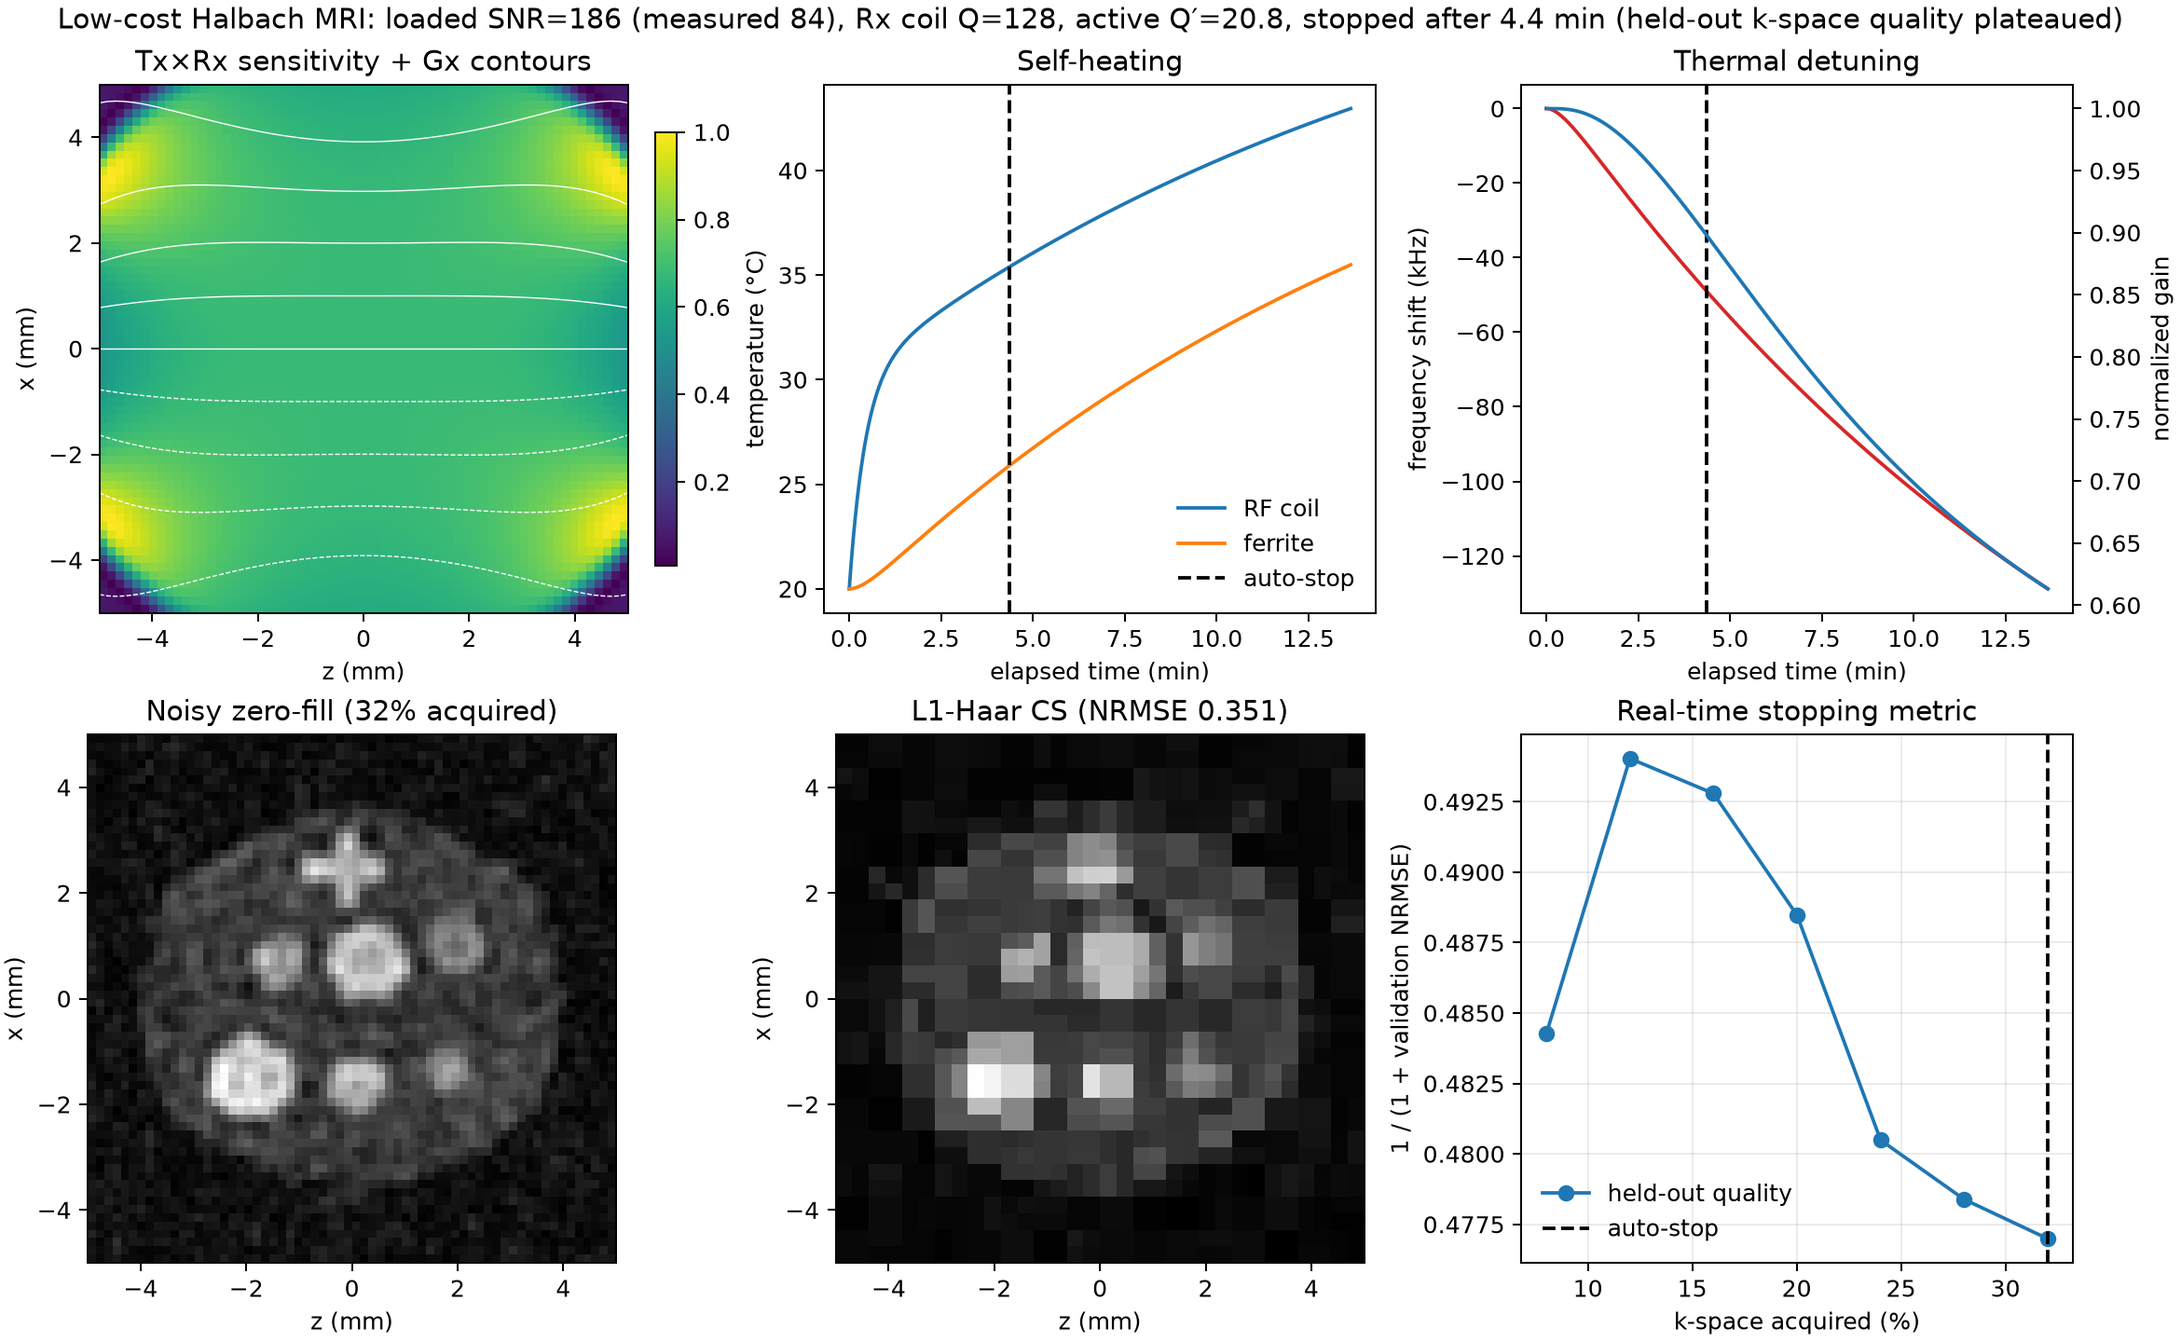
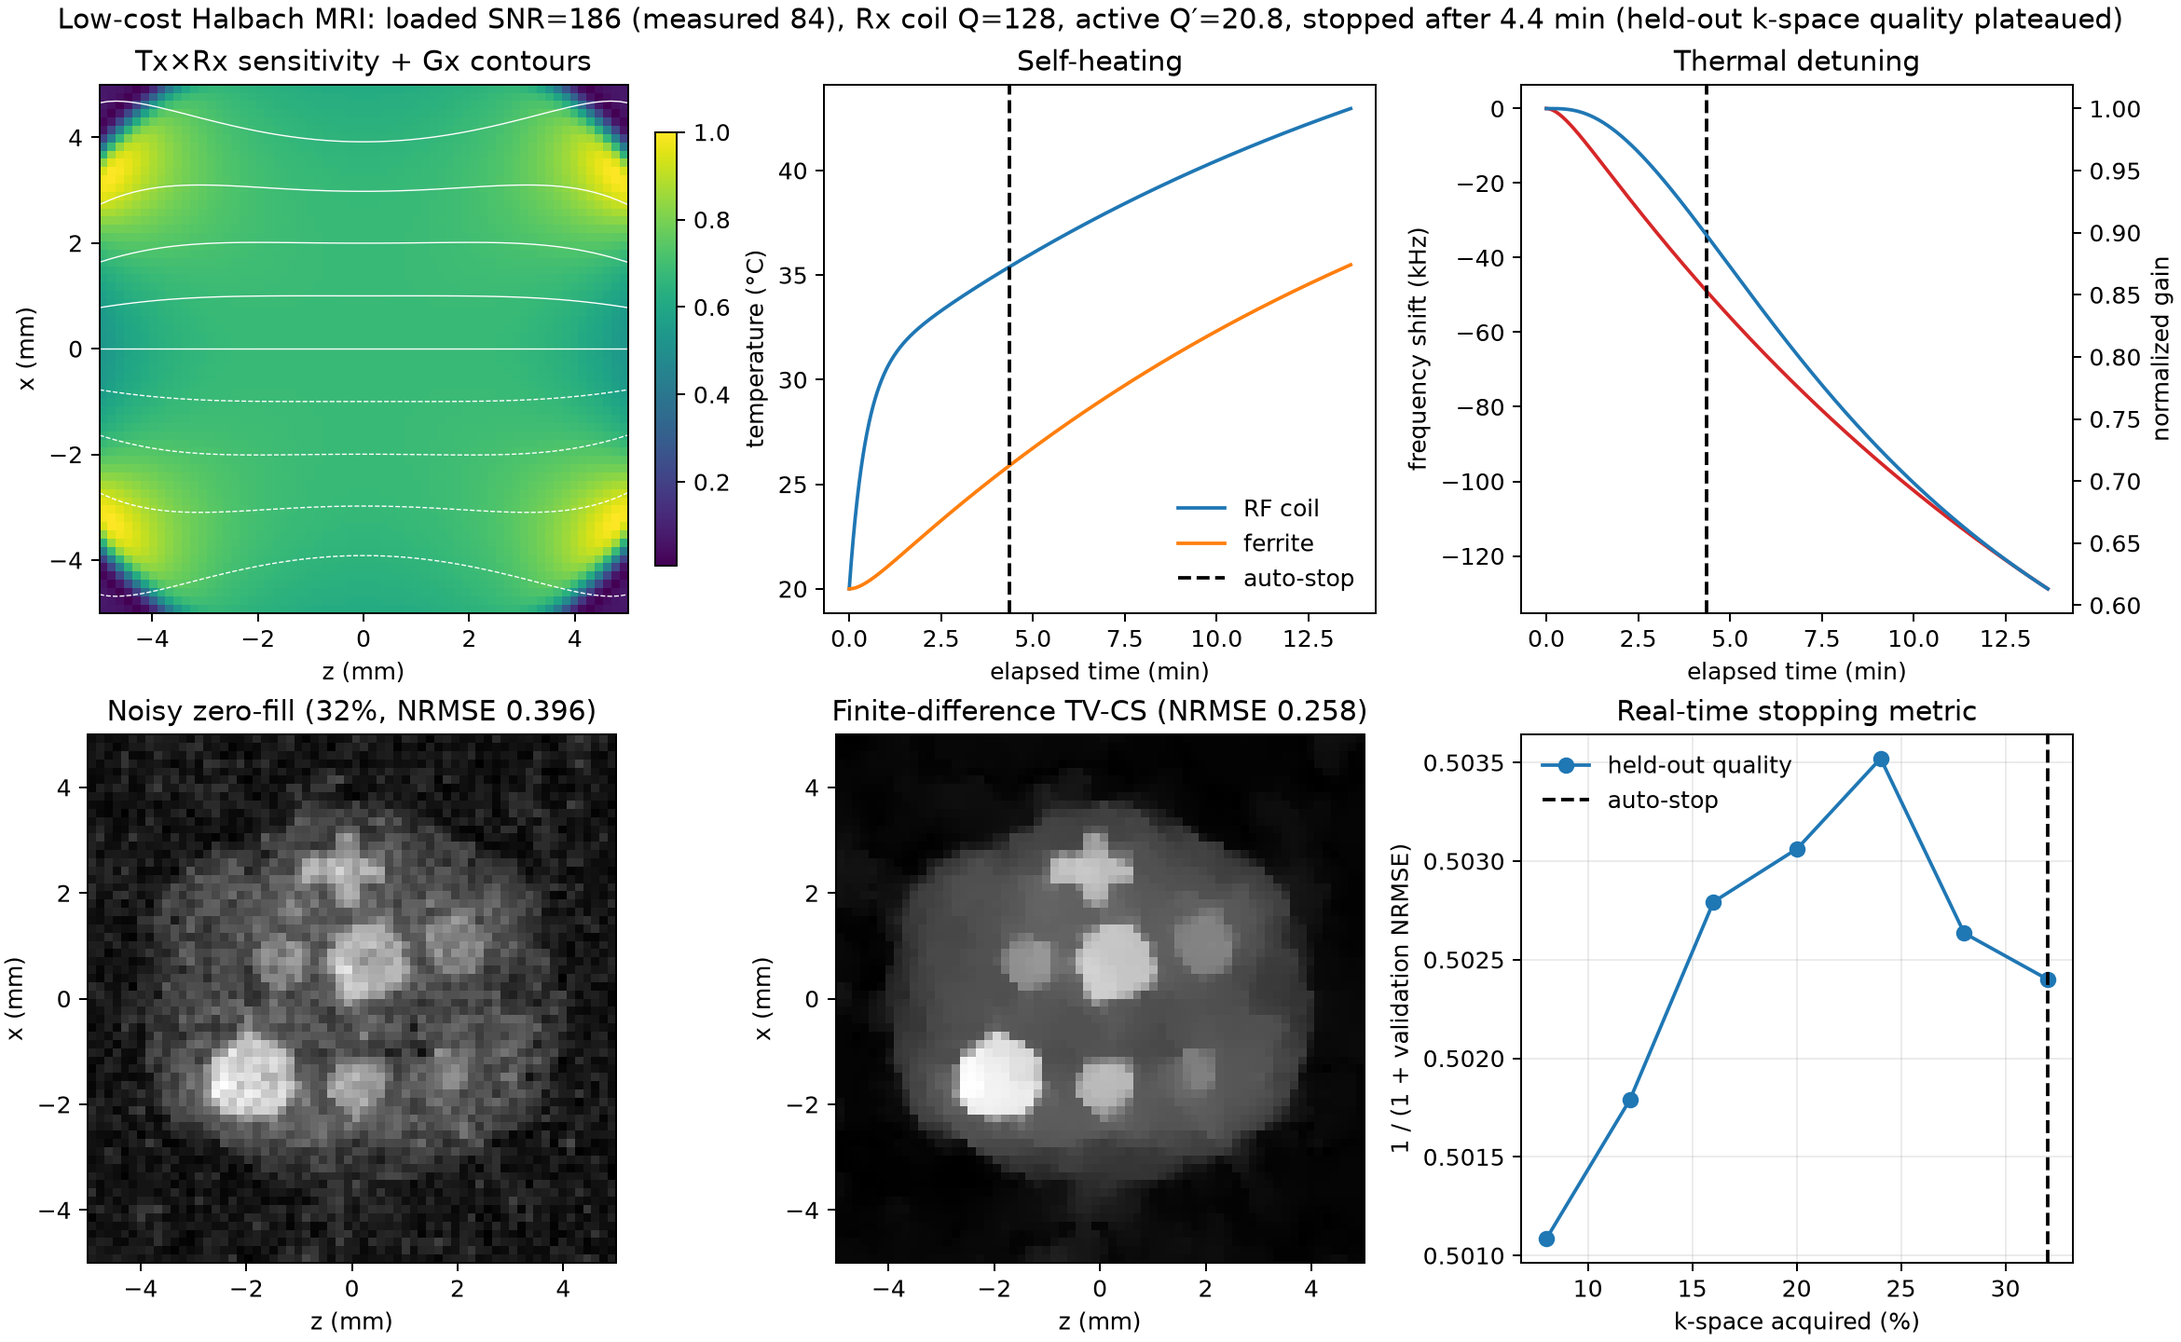
Fix capstone compressed sensing reconstruction

diff --git a/PythonSpinDynamics/src/spin_dynamics/analysis/compressed_sensing.py b/PythonSpinDynamics/src/spin_dynamics/analysis/compressed_sensing.py
@@ -154,13 +154,106 @@ def reconstruct_wavelet_fista(
     return x
 
 
+def _tv_denoise_chambolle(
+    image: np.ndarray,
+    weight: float,
+    *,
+    iterations: int,
+) -> np.ndarray:
+    """Complex isotropic-TV proximal map using Chambolle's dual iteration."""
+
+    if weight <= 0.0:
+        return np.asarray(image, dtype=np.complex128).copy()
+    source = np.asarray(image, dtype=np.complex128)
+    px = np.zeros_like(source)
+    py = np.zeros_like(source)
+    estimate = source.copy()
+    step = 0.125
+    for _ in range(int(iterations)):
+        gx = np.zeros_like(estimate)
+        gy = np.zeros_like(estimate)
+        gx[:-1, :] = estimate[1:, :] - estimate[:-1, :]
+        gy[:, :-1] = estimate[:, 1:] - estimate[:, :-1]
+        magnitude = np.sqrt(np.abs(gx) ** 2 + np.abs(gy) ** 2)
+        px = (px + (step / weight) * gx) / (1.0 + (step / weight) * magnitude)
+        py = (py + (step / weight) * gy) / (1.0 + (step / weight) * magnitude)
+        divergence = np.zeros_like(source)
+        divergence[0, :] += px[0, :]
+        divergence[1:-1, :] += px[1:-1, :] - px[:-2, :]
+        divergence[-1, :] -= px[-2, :]
+        divergence[:, 0] += py[:, 0]
+        divergence[:, 1:-1] += py[:, 1:-1] - py[:, :-2]
+        divergence[:, -1] -= py[:, -2]
+        estimate = source + weight * divergence
+    return estimate
+
+
+def reconstruct_tv_pocs(
+    kspace: np.ndarray,
+    mask: np.ndarray,
+    *,
+    regularization: float = 0.08,
+    iterations: int = 10,
+    denoise_iterations: int = 25,
+    final_denoise_iterations: int = 100,
+    initial: np.ndarray | None = None,
+) -> np.ndarray:
+    """Reconstruct undersampled MRI with finite-difference TV and data consistency.
+
+    Alternating TV proximal and measured-k-space projection steps suppress
+    incoherent aliasing while repeatedly restoring every acquired coefficient.
+    A final TV proximal step is retained because noisy MRI uses a data-fidelity
+    penalty rather than exact interpolation. ``regularization`` is relative to
+    the peak magnitude of the zero-filled image, making it portable across
+    physical voltage scales.
+    """
+
+    data = np.asarray(kspace, dtype=np.complex128)
+    sampling = np.asarray(mask, dtype=bool)
+    if data.ndim != 2 or sampling.shape != data.shape:
+        raise ValueError("kspace and mask must be matching 2-D arrays")
+    if not np.any(sampling):
+        raise ValueError("mask must select at least one sample")
+    if regularization < 0.0 or not np.isfinite(regularization):
+        raise ValueError("regularization must be finite and non-negative")
+    if min(int(iterations), int(denoise_iterations), int(final_denoise_iterations)) < 1:
+        raise ValueError("iteration counts must be positive")
+    zero_fill = centered_ifft2(np.where(sampling, data, 0.0))
+    estimate = zero_fill if initial is None else np.asarray(initial, dtype=np.complex128).copy()
+    if estimate.shape != data.shape:
+        raise ValueError("initial must match the kspace shape")
+    weight = float(regularization) * max(float(np.max(np.abs(zero_fill))), 1e-30)
+    for _ in range(int(iterations)):
+        estimate = _tv_denoise_chambolle(
+            estimate,
+            weight,
+            iterations=int(denoise_iterations),
+        )
+        spectrum = centered_fft2(estimate)
+        spectrum[sampling] = data[sampling]
+        estimate = centered_ifft2(spectrum)
+    return _tv_denoise_chambolle(
+        estimate,
+        weight,
+        iterations=int(final_denoise_iterations),
+    )
+
+
 def variable_density_order(
     shape: tuple[int, int],
     *,
     seed: int = 0,
     density_power: float = 2.0,
 ) -> np.ndarray:
-    """Return center-out variable-density Cartesian sample coordinates."""
+    """Return an incoherent variable-density Cartesian acquisition order.
+
+    A small autocalibration core is acquired first. Remaining samples use a
+    weighted random permutation whose probability falls with radius, retaining
+    central-k-space SNR while scattering enough high-frequency samples for a
+    sparse reconstruction. A purely radial center-out order creates a compact
+    low-pass mask and gives compressed sensing little incoherent aliasing to
+    remove.
+    """
 
     if len(shape) != 2 or min(shape) < 2:
         raise ValueError("shape must contain two dimensions of at least 2")
@@ -170,8 +263,14 @@ def variable_density_order(
     cy, cx = (np.asarray(shape, dtype=np.float64) - 1.0) / 2.0
     radius = np.sqrt(((yy - cy) / max(cy, 1.0)) ** 2 + ((xx - cx) / max(cx, 1.0)) ** 2)
     rng = np.random.default_rng(seed)
-    score = radius**density_power * rng.uniform(0.65, 1.35, size=shape)
-    flat = np.argsort(score, axis=None, kind="stable")
+    weights = 0.05 + np.exp(-density_power * radius**2)
+    random_keys = -np.log(np.maximum(rng.random(shape), 1e-30)) / weights
+    random_order = np.argsort(random_keys, axis=None, kind="stable")
+    radius_flat = radius.ravel()
+    core = np.flatnonzero(radius_flat <= 0.12)
+    core = core[np.argsort(radius_flat[core], kind="stable")]
+    remaining = random_order[~np.isin(random_order, core)]
+    flat = np.concatenate([core, remaining])
     return np.column_stack(np.unravel_index(flat, shape)).astype(np.int64)
 
 
@@ -289,8 +388,19 @@ def adaptive_cs_reconstruction(
             break
 
     acquired = reconstruction_mask.reshape(data.shape) | validation_mask
+    # Validation samples are withheld only while making the stopping decision.
+    # Once acquisition ends they are measured data like every other point and
+    # must be folded into the delivered reconstruction. This also makes the CS
+    # and zero-filled images use exactly the same acquisition mask.
+    final_image = reconstruct_wavelet_fista(
+        data,
+        acquired,
+        regularization=regularization,
+        iterations=iterations,
+        initial=images[-1],
+    )
     return AdaptiveCSResult(
-        image=images[best_index],
+        image=final_image,
         acquired_mask=acquired,
         reconstruction_mask=reconstruction_mask.reshape(data.shape).copy(),
         validation_mask=validation_mask,
@@ -321,5 +431,6 @@ __all__ = [
     "centered_ifft2",
     "normalized_root_mean_square_error",
     "reconstruct_wavelet_fista",
+    "reconstruct_tv_pocs",
     "variable_density_order",
 ]

diff --git a/PythonSpinDynamics/src/spin_dynamics/workflows/portable_halbach.py b/PythonSpinDynamics/src/spin_dynamics/workflows/portable_halbach.py
@@ -9,14 +9,16 @@ independent validation target.
 
 from __future__ import annotations
 
-from dataclasses import dataclass
+from dataclasses import dataclass, replace
 
 import numpy as np
 
 from spin_dynamics.analysis.compressed_sensing import (
     AdaptiveCSResult,
     adaptive_cs_reconstruction,
+    centered_ifft2,
     normalized_root_mean_square_error,
+    reconstruct_tv_pocs,
     variable_density_order,
 )
 from spin_dynamics.core.numerics import trapezoid
@@ -71,8 +73,10 @@ class PortableHalbachMRIConfig:
     adc_full_scale_v: float = 2.5
     adc_peak_fraction: float = 0.5
     ambient_temperature_k: float = 293.15
-    regularization: float = 5.0e-4
-    reconstruction_iterations: int = 45
+    regularization: float = 1.0e-6
+    reconstruction_iterations: int = 120
+    tv_regularization: float = 0.08
+    tv_iterations: int = 10
     batch_fraction: float = 0.04
     minimum_sampling_fraction: float = 0.32
     stopping_patience: int = 2
@@ -117,6 +121,7 @@ class PortableHalbachMRIResult:
     noise_standard_deviation: float
     adaptive: AdaptiveCSResult
     reference_nrmse: float
+    zero_fill_reference_nrmse: float
 
     @property
     def stopped_time_s(self) -> float:
@@ -679,10 +684,29 @@ def simulate_portable_halbach_mri(
         iterations=cfg.reconstruction_iterations,
         seed=cfg.seed,
     )
+    adaptive = replace(
+        adaptive,
+        image=reconstruct_tv_pocs(
+            measured,
+            adaptive.acquired_mask,
+            regularization=cfg.tv_regularization,
+            iterations=cfg.tv_iterations,
+            initial=adaptive.image,
+        ),
+    )
+    reference_magnitude = np.abs(spin_density)
     reconstructed_magnitude = np.abs(adaptive.image)
     display_scale = float(
-        np.sum(np.abs(spin_density) * reconstructed_magnitude)
+        np.sum(reference_magnitude * reconstructed_magnitude)
         / max(np.sum(reconstructed_magnitude**2), 1e-30)
+    )
+    zero_fill = centered_ifft2(
+        np.where(adaptive.acquired_mask, measured, 0.0)
+    )
+    zero_fill_magnitude = np.abs(zero_fill)
+    zero_fill_scale = float(
+        np.sum(reference_magnitude * zero_fill_magnitude)
+        / max(np.sum(zero_fill_magnitude**2), 1e-30)
     )
     return PortableHalbachMRIResult(
         config=cfg,
@@ -719,6 +743,9 @@ def simulate_portable_halbach_mri(
         adaptive=adaptive,
         reference_nrmse=normalized_root_mean_square_error(
             spin_density, display_scale * adaptive.image
+        ),
+        zero_fill_reference_nrmse=normalized_root_mean_square_error(
+            spin_density, zero_fill_scale * zero_fill
         ),
     )
 

diff --git a/PythonSpinDynamics/examples/plot_portable_halbach_adaptive_mri.py b/PythonSpinDynamics/examples/plot_portable_halbach_adaptive_mri.py
@@ -185,9 +185,20 @@ def main() -> None:
     gain_axis.set_ylabel("normalized gain")
 
     axes[1, 0].imshow(np.abs(zero_fill), cmap="gray", origin="lower", extent=extent)
-    axes[1, 0].set(title=f"Noisy zero-fill ({100 * adaptive.sampling_fractions[-1]:.0f}% acquired)", xlabel="z (mm)", ylabel="x (mm)")
+    axes[1, 0].set(
+        title=(
+            f"Noisy zero-fill ({100 * adaptive.sampling_fractions[-1]:.0f}%, "
+            f"NRMSE {result.zero_fill_reference_nrmse:.3f})"
+        ),
+        xlabel="z (mm)",
+        ylabel="x (mm)",
+    )
     axes[1, 1].imshow(np.abs(adaptive.image), cmap="gray", origin="lower", extent=extent)
-    axes[1, 1].set(title=f"L1-Haar CS (NRMSE {result.reference_nrmse:.3f})", xlabel="z (mm)", ylabel="x (mm)")
+    axes[1, 1].set(
+        title=f"Finite-difference TV-CS (NRMSE {result.reference_nrmse:.3f})",
+        xlabel="z (mm)",
+        ylabel="x (mm)",
+    )
 
     fraction = 100.0 * adaptive.sampling_fractions
     axes[1, 2].plot(fraction, adaptive.quality, "o-", label="held-out quality")

diff --git a/PythonSpinDynamics/tests/test_compressed_sensing.py b/PythonSpinDynamics/tests/test_compressed_sensing.py
@@ -60,13 +60,17 @@ class TestCompressedSensing(unittest.TestCase):
         self.assertIn("quality plateaued", result.stop_reason)
 
     def test_portable_workflow_includes_noise_and_thermal_drift(self):
-        config = PortableHalbachMRIConfig(matrix_size=32, reconstruction_iterations=20)
+        config = PortableHalbachMRIConfig(matrix_size=64)
         result = simulate_portable_halbach_mri(config)
         self.assertGreater(result.noise_standard_deviation, 0.0)
         self.assertLess(result.larmor_drift_hz[-1], 0.0)
         self.assertGreater(result.magnet_temperature_k[-1], config.ambient_temperature_k)
         self.assertTrue(result.adaptive.stopped_early)
         self.assertLess(result.reference_nrmse, 0.50)
+        self.assertLess(
+            result.reference_nrmse,
+            0.85 * result.zero_fill_reference_nrmse,
+        )
         self.assertGreater(result.predicted_single_scan_snr, 0.0)
         self.assertGreater(result.receive_coil_q_factor, 0.0)
         self.assertGreater(

diff --git a/PythonSpinDynamics/src/spin_dynamics/analysis/__init__.py b/PythonSpinDynamics/src/spin_dynamics/analysis/__init__.py
@@ -7,6 +7,7 @@ from spin_dynamics.analysis.compressed_sensing import (
     centered_ifft2,
     normalized_root_mean_square_error,
     reconstruct_wavelet_fista,
+    reconstruct_tv_pocs,
     variable_density_order,
 )
 
@@ -64,6 +65,7 @@ __all__ = [
     "laplace_kernel",
     "normalized_root_mean_square_error",
     "reconstruct_wavelet_fista",
+    "reconstruct_tv_pocs",
     "select_regularization_1d",
     "select_regularization_2d",
     "t1_kernel",

diff --git a/PythonSpinDynamics/docs/portable_halbach_adaptive_mri.md b/PythonSpinDynamics/docs/portable_halbach_adaptive_mri.md
@@ -68,7 +68,7 @@ new hardware specifications.
 | Gx/Gz coils | Two-turn four-wire saddles, radius 10.3 mm, length 83 mm | Book Table 4.4; Biot–Savart field |
 | Receiver | Active Q reduction to Q′≈20.8 (200 kHz), 18 µs acquisition window, 3 dB conservative noise figure | Book operating point plus explicit assumption |
 | Thermal plant | RF coil, ferrite magnet, and ambient lumped nodes | System-level RC approximation |
-| Reconstruction | Variable-density Cartesian sampling and L1-Haar FISTA | Dependency-free package implementation |
+| Reconstruction | Incoherent variable-density sampling; Haar checkpoints; final finite-difference TV-CS | Dependency-free package implementation |
 
 The measured 0.88 T/m diffusion-weighting gradient magnitude is retained as a
 sequence parameter but is not imposed as a signed linear ramp across the image.
@@ -230,10 +230,12 @@ At the default stop point:
 | RF coil temperature | 35.4 °C |
 | Ferrite temperature | 25.9 °C |
 | Larmor drift | −49.1 kHz |
-| CS reference NRMSE | 0.351 |
+| Zero-fill reference NRMSE | 0.396 |
+| TV-CS reference NRMSE | 0.258 |
 
-A fixed, distributed validation set is acquired but withheld from FISTA. After
-each batch, the reconstruction predicts those samples and reports
+A fixed, distributed validation set is acquired but withheld from the fast Haar
+checkpoint reconstruction. After each batch, that checkpoint predicts the
+validation samples and reports
 
 ```text
 quality = 1 / (1 + held-out k-space NRMSE).
@@ -242,8 +244,11 @@ quality = 1 / (1 + held-out k-space NRMSE).
 The score is available during a real scan and uses the same noisy, thermally
 detuned data as the reconstruction. Acquisition stops after quality fails to
 make a material improvement for the configured patience interval, subject to a
-minimum sampling fraction. Ground truth is used only after the simulation to
-report `reference_nrmse`.
+minimum sampling fraction. At that point, the validation samples are no longer
+withheld: all acquired points enter a finite-difference TV reconstruction. Thus
+the displayed zero-fill and CS images use exactly the same 32% mask. Ground
+truth is used only after the simulation to report NRMSE. The 64×64 regression
+test requires TV-CS to improve NRMSE by at least 15% over zero-fill.
 
 ## Programmatic use
 

diff --git a/CHANGELOG.md b/CHANGELOG.md
@@ -17,7 +17,7 @@ subprojects. The format follows [Keep a Changelog](https://keepachangelog.com/en
   finite-magnet and book-dimensioned RF/gradient-coil field maps, PEEC-predicted
   receive impedance and SNR, field-integrated ferrite RF loss, duty-cycled I2R
   heating, ferrite resonance drift,
-  tuned-receiver loss, predicted complex noise, L1-Haar
+  tuned-receiver loss, predicted complex noise, sparse/TV
   compressed sensing, and a held-out k-space quality metric that automatically
   stops acquisition when improvement plateaus.
 - Expanded the portable Halbach workflow into a designer-facing capstone with
@@ -28,6 +28,11 @@ subprojects. The format follows [Keep a Changelog](https://keepachangelog.com/en
   with the scanner's actual inverse-PCMCD series-tuned Tx chain and actively
   feedback-damped parallel-tuned Rx chain, including finite envelope bandwidth,
   ring-up, echo filtering, and filtered receiver-noise bandwidth.
+- Corrected the capstone's compressed-sensing comparison by using an incoherent
+  variable-density mask, withholding validation data only during stopping,
+  folding all acquired data into the delivered image, and using finite-difference
+  TV for the final reconstruction. A regression gate now requires CS NRMSE to
+  beat zero-fill by at least 15% on the 64×64 capstone.
 
 - Added a host-normalized CI performance regression gate that benchmarks the
   Git base and candidate commits on the same runner. Compact core, workflow,

diff --git a/PythonSpinDynamics/docs/python_api/examples.md b/PythonSpinDynamics/docs/python_api/examples.md
@@ -230,7 +230,7 @@ python examples\plot_multislice_halbach_imaging.py --pixels 16 --slices 5 --outp
 
 For an end-to-end capstone model of the book's low-cost C8 system—including finite
 Halbach fields, RF/gradient self-heating, ferrite Larmor drift, measured
-complex receiver noise, incomplete k-space, L1-Haar reconstruction, and a
+complex receiver noise, incomplete k-space, finite-difference TV reconstruction, and a
 held-out quality auto-stop, RF/gradient driver requirements, ADC gain, mass,
 active volume, and effective slice thickness—run:
 
